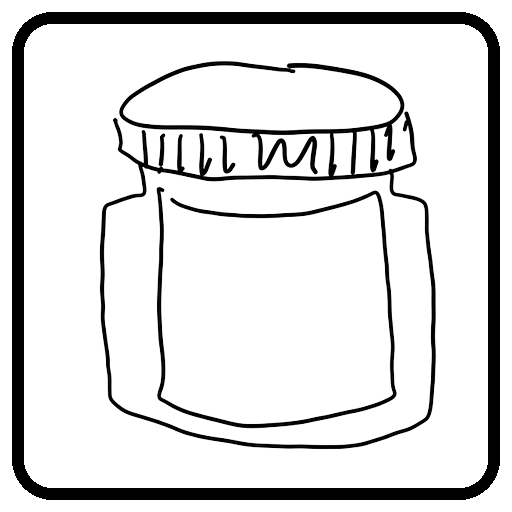
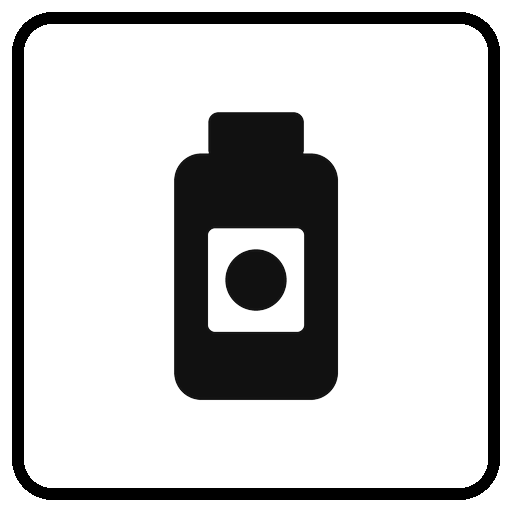
feat(sigil): connect the pictogram engine to what the app already knows
The engine that makes this app usable without reading was missing from half
its screens, and had a vocabulary of three words. Sixty-seven morphemes exist;
the generator emitted pill_bottle, food_bowl and no. So every prescription
drew a pill bottle whatever it was, and a food scan drew nothing at all — the
strip only lived in the prescription branch. A peanut bar could reach ⛔ "Do
not eat. Contains peanuts." with no peanut anywhere on the screen.

Dosage form was the clearest waste: the OCR determines it, names it, and picks
an emoji from it, then dropped it before the drawing engine could see. Eye
drops now draw a dropper bottle, syrup a liquid bottle, cream a tube.

Flags become glyphs, so what an item contains is drawn whether or not it is a
problem — knowing there are peanuts in this is worth having when you are not
allergic too, and pictures are the only channel here that carries it. Two
flags had no glyph at all and now do: caffeine, and the bleeding risk that
drives the blood-thinner verdict.

Prohibition had to change with them. A pair of thick strokes across the whole
panel was legible over one subject, but over a glyph with interior detail it
covered everything, and three allergens side by side were three identical
crosses — which erases the only thing the mark is there to qualify. It is a
ring and one diagonal now, cleared on both sides so it does not merge with
what it sits on. That is the shape prohibition takes everywhere, and the
[…]

Changed region(s): [[0.1875, 0.1562, 0.875, 0.875], [0.3125, 0.0938, 0.7812, 0.1875], [0.2188, 0.7812, 0.2812, 0.8125]]

diff --git a/lib/snapcare/sigil.ts b/lib/snapcare/sigil.ts
@@ -1,10 +1,17 @@
-import type { ScanItem } from './types';
+import type { ItemFlag, ScanItem } from './types';
 
 /**
- * ScanItem → SIGIL DSL (.p 소스) 변환.
- * 데모/구조화 데이터에서 자체 픽토그램 엔진(SIGIL)이 소비할 DSL을 만든다.
- * (OCR 경로는 lib/ocr-to-macro.ocrToMacro 를 그대로 사용 — 여기선 구조화 아이템용)
+ * ScanItem → SIGIL DSL (.p 소스).
+ *
+ * 오래 비어 있던 자리다. 형태소는 예순 개가 넘는데 이 파일이 아는 낱말은 셋뿐이라
+ * (pill_bottle · food_bowl · no) 안약을 찍어도 알약통이 나왔고, 땅콩이 든 과자를 찍어
+ * 회피 판정이 떠도 땅콩 그림은 어디에도 없었다. 글을 읽지 않아도 되게 만들겠다는 앱에서
+ * 그림을 맡은 엔진이 화면 절반에서 빠져 있던 셈이다.
+ *
+ * 여기서 정하는 것은 "무엇을 그릴까"가 아니라 "이 판정에서 사용자가 알아야 할 것이
+ * 무엇인가"다. 순서가 곧 읽는 순서이므로 위험한 것부터 앞에 놓는다.
  */
+
 const CADENCE: Record<number, string> = {
   2: 'twice_daily',
   3: 'three_times_daily',
@@ -18,23 +25,84 @@ const TIME_MOD: Record<string, string> = {
   Night: 'time_night',
 };
 
-/** 약/처방 아이템 → 픽토그램 시퀀스 DSL. avoid면 금지 픽토그램을 앞세운다. */
-export function itemToDsl(item: ScanItem, avoid: boolean): string {
+/** 제형 → 그림의 머리. OCR 이 알아낸 값을 그대로 쓴다. */
+const FORM_HEAD: Record<string, string> = {
+  tablet: 'tablet_blister',
+  capsule: 'capsule_strip',
+  syrup: 'liquid_bottle',
+  eyedrop: 'dropper_bottle',
+  cream: 'cream_tube',
+  inhaler: 'inhaler',
+  injection: 'syringe',
+  suppository: 'suppository',
+  sachet: 'sachet',
+};
+
+/** 아이템 플래그 → 그것을 가리키는 형태소. */
+const FLAG_GLYPH: Partial<Record<ItemFlag, string>> = {
+  peanut: 'allergen_peanut',
+  tree_nuts: 'allergen_tree_nut',
+  gluten: 'allergen_gluten',
+  lactose: 'allergen_milk',
+  shellfish: 'allergen_shellfish',
+  egg: 'allergen_egg',
+  soy: 'allergen_soy',
+  sesame: 'allergen_sesame',
+  high_sugar: 'food_sugar',
+  high_salt: 'food_salt',
+  high_sat_fat: 'food_oil',
+  caffeine: 'caffeine',
+  alcohol: 'no_alcohol',
+  nsaid_bleed: 'warn_bleeding',
+  unsafe_pregnancy: 'state_pregnant',
+  unsafe_breastfeeding: 'state_breastfeeding',
+};
+
+/**
+ * 이 아이템에 들어 있는 것들.
+ *
+ * 판정이 안전이 아니면 금지 기호를 씌운다. 안전할 때도 그림은 남긴다 — "무엇이 들어
+ * 있는가"는 경고가 아닐 때도 알아야 하는 정보이고, 이 앱에서 그걸 전할 통로는 그림뿐이다.
+ */
+function contentLabels(item: ScanItem, avoid: boolean): string[] {
+  const seen = new Set<string>();
+  const out: string[] = [];
+  for (const flag of item.flags) {
+    const glyph = FLAG_GLYPH[flag];
+    if (!glyph || seen.has(glyph)) continue;
+    seen.add(glyph);
+    out.push(avoid ? `\\no{\\${glyph}}` : `\\${glyph}`);
+  }
+  return out;
+}
+
+/** 약/처방 → 어떻게 먹는가. 제형·횟수·식사·시간대를 그림으로 옮긴다. */
+function medicineLabels(item: ScanItem, avoid: boolean): string[] {
   const labels: string[] = [];
   const rx = item.rx;
-  const withFood = /food/i.test(rx?.dosageText ?? '');
+  const head = (rx?.form && FORM_HEAD[rx.form]) || 'pill_bottle';
+  const withFood = /food|meal/i.test(rx?.dosageText ?? '');
   const freq = rx?.schedule.length ?? 1;
 
-  if (avoid) labels.push('\\no{\\pill_bottle}');
+  // 회피면 그것부터. 나머지 지시를 읽기 전에 멈춰야 한다.
+  if (avoid) labels.push(`\\no{\\${head}}`);
 
-  let core = withFood ? '\\pill_bottle{\\food_bowl}' : '\\pill_bottle';
+  let core = withFood ? `\\${head}{\\food_bowl}` : `\\${head}`;
   if (CADENCE[freq]) core = `\\${CADENCE[freq]}{${core}}`;
   labels.push(core);
 
   for (const s of rx?.schedule ?? []) {
     const tm = TIME_MOD[s.label];
-    if (tm) labels.push(`\\pill_bottle{\\${tm}}`);
+    if (tm) labels.push(`\\${head}{\\${tm}}`);
   }
+  return labels;
+}
+
+export function itemToDsl(item: ScanItem, avoid: boolean): string {
+  const isRx = item.kind === 'medicine' || item.kind === 'prescription';
+  const labels = isRx
+    ? [...medicineLabels(item, avoid), ...contentLabels(item, avoid)]
+    : contentLabels(item, avoid);
 
   return labels.join('\n');
 }

diff --git a/app/scan/page.tsx b/app/scan/page.tsx
@@ -173,6 +173,13 @@ function FoodResult({
       <VerdictHero item={item} verdict={verdict} />
 
       <div className="mt-2 flex flex-col gap-3 px-5">
+        {/*
+          무엇이 들어 있는지 그림으로. 이 줄이 없어서 땅콩이 든 과자를 찍어 회피 판정이
+          떠도 땅콩 그림은 화면 어디에도 없었다 — 처방 화면에만 스트립이 있었다.
+          플래그가 하나도 없으면 컴포넌트가 스스로 아무것도 그리지 않는다.
+        */}
+        <PictogramStrip source={itemToDsl(item, verdict.level !== 'safe')} />
+
         {/* 영양 엔진 — 바코드가 있으면 실제 수치를 구성원 기준치와 대조해 보여준다 */}
         <NutrientBars barcode={item.barcode} profile={item.profile} member={member} />
 

diff --git a/lib/snapcare/types.ts b/lib/snapcare/types.ts
@@ -72,6 +72,12 @@ export interface ScanItem {
     dosageText: string;
     durationText: string;
     schedule: { time: string; label: string; emoji: string }[];
+    /**
+     * 제형. OCR 이 이미 알아내는 값인데(extractRxInfo.drugForm) 여기까지 오지 않아서,
+     * 안약을 찍어도 픽토그램은 알약통이 나왔다. 그림 엔진이 이 값으로 머리를 고른다.
+     */
+    form?: 'tablet' | 'capsule' | 'syrup' | 'eyedrop' | 'cream' | 'inhaler'
+      | 'injection' | 'suppository' | 'sachet';
   };
 }
 

diff --git a/lib/snapcare/fromOcr.ts b/lib/snapcare/fromOcr.ts
@@ -52,6 +52,8 @@ export function ocrToScanItem(ocrText: string): { item: ScanItem; rxInfo: Struct
     rx: {
       dosageText,
       durationText: rx.durationDays ? `${rx.durationDays} days` : 'ongoing',
+      // 'unknown' 은 제형을 못 알아냈다는 뜻이므로 넘기지 않는다 — 그림 엔진이 기본형을 쓴다
+      form: rx.drugForm === 'unknown' ? undefined : rx.drugForm,
       schedule,
     },
   };

diff --git a/engine/engine.py b/engine/engine.py
@@ -265,13 +265,35 @@ def _fit(asset: Image.Image, box: Tuple[int, int, int, int]
     return resized, (x0 + (bw - nw) // 2, y0 + (bh - nh) // 2)
 
 
-def _overlay_cross(img: Image.Image, stroke_ratio: float = 0.06) -> None:
+def _overlay_cross(img: Image.Image, stroke_ratio: float = 0.075) -> None:
+    """금지 — 테두리 원과 사선 하나.
+
+    예전에는 굵은 X 두 획을 판 전체에 그었다. 주어가 하나일 때는 읽혔지만 알레르겐처럼
+    안쪽 형태가 촘촘한 그림 위에서는 밑그림을 통째로 덮어, 세 장을 나란히 놓으면 전부
+    같은 X 로 보였다 — 무엇을 피하라는 것인지가 사라지면 이 기호는 뜻이 없다.
+
+    금지 표지가 세계 어디서나 원 + 사선 하나인 데는 이유가 있다. 획이 하나면 가려지는
+    면적이 절반이고, 원이 '금지' 를 맡아주므로 사선을 더 굵게 그릴 필요도 없다.
+    사선 양옆에 투명한 틈을 둬서 밑그림과 겹쳐도 서로 뭉개지지 않게 한다.
+    """
     w, h = img.size
-    s = max(4, int(min(w, h) * stroke_ratio))
-    inset = int(min(w, h) * 0.12)
+    side = min(w, h)
+    s = max(4, int(side * stroke_ratio))
+    gap = max(2, int(s * 0.45))
+    cx, cy = w // 2, h // 2
+    r = int(side * 0.40)
+
     d = ImageDraw.Draw(img)
-    d.line((inset, inset, w - inset, h - inset), fill=INK, width=s)
-    d.line((inset, h - inset, w - inset, inset), fill=INK, width=s)
+    # ① 사선이 지나갈 자리를 먼저 비운다 (밑그림과 붙어 읽히지 않게)
+    for shape in (
+        lambda dd, wdt: dd.ellipse((cx - r, cy - r, cx + r, cy + r), outline=BG, width=wdt),
+        lambda dd, wdt: dd.line((cx - r * 0.72, cy + r * 0.72, cx + r * 0.72, cy - r * 0.72),
+                                fill=BG, width=wdt),
+    ):
+        shape(d, s + gap * 2)
+    # ② 그 위에 기호를 그린다
+    d.ellipse((cx - r, cy - r, cx + r, cy + r), outline=INK, width=s)
+    d.line((cx - r * 0.72, cy + r * 0.72, cx + r * 0.72, cy - r * 0.72), fill=INK, width=s)
 
 
 def _overlay_half(img: Image.Image) -> None:

diff --git a/engine/glyphs.py b/engine/glyphs.py
@@ -359,6 +359,24 @@ def no_alcohol(c: Canvas) -> None:
     c.rect(0.28, 0.84, 0.72, 0.92, r=0.03, fill=True)
 
 
+def caffeine(c: Canvas) -> None:
+    # 앱의 caffeine 플래그에 대응하는 그림이 없어서, 카페인이 든 음료를 판정해도
+    # 픽토그램 자리에는 아무것도 나오지 않았다.
+    c.blob([(0.18, 0.34), (0.66, 0.34), (0.62, 0.72), (0.42, 0.84), (0.22, 0.72)])
+    c.arc(0.68, 0.48, 0.14, 270, 90, w=STROKE)                # 손잡이
+    c.rect(0.12, 0.86, 0.74, 0.94, r=0.03, fill=True)         # 받침
+    for x in (0.30, 0.44, 0.56):                              # 김
+        c.smooth([(x, 0.28), (x + 0.05, 0.20), (x - 0.02, 0.12)], w=THIN)
+
+
+def warn_bleeding(c: Canvas) -> None:
+    # nsaid_bleed — 출혈 위험. 판정 엔진이 이 플래그로 회피를 내는데 그림이 없었다.
+    c.blob([(0.42, 0.10), (0.62, 0.40), (0.68, 0.62), (0.42, 0.80), (0.18, 0.62), (0.24, 0.40)])
+    c.hole_blob([(0.36, 0.44), (0.46, 0.36), (0.52, 0.48), (0.40, 0.58)])
+    for i, r in enumerate((0.10, 0.17)):                      # 번지는 자국
+        c.arc(0.66, 0.80, r, 200, 340, w=THIN)
+
+
 def call_help(c: Canvas) -> None:
     c.blob([(0.18, 0.20), (0.34, 0.14), (0.46, 0.32), (0.34, 0.44), (0.46, 0.62),
             (0.62, 0.70), (0.70, 0.58), (0.88, 0.66), (0.84, 0.84), (0.62, 0.88),
@@ -629,7 +647,8 @@ HEADS = {
     "food_rice": food_rice, "food_bread": food_bread, "food_meat": food_meat,
     "food_vegetable": food_vegetable, "food_fruit": food_fruit, "food_oil": food_oil,
     "food_sugar": food_sugar, "food_salt": food_salt,
-    "no_alcohol": no_alcohol, "call_help": call_help,
+    "no_alcohol": no_alcohol, "caffeine": caffeine,
+    "warn_bleeding": warn_bleeding, "call_help": call_help,
 }
 
 MODIFIERS = {
